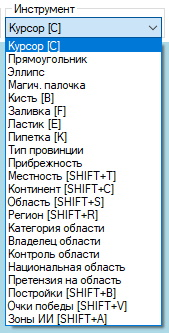
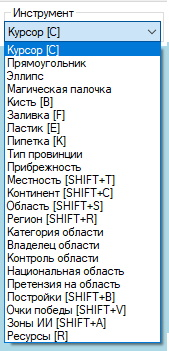
Docs WIP

diff --git a/docs/interfaces/map/lang=ru.md b/docs/interfaces/map/lang=ru.md
@@ -172,49 +172,51 @@
     Подробное описание и инструкция по работе с каждым инструментом приведены в статье: [Инструменты для работы с картой](/docs/tools/map/lang=ru.md)
     
     Поддерживает использование следующих инструментов:
-    - Курсор (сочетание клавиш: C) - позволяет на ЛКМ выбирать объекты на картах, а на ПКМ - открывать контекстное меню действий
+    - Курсор **[C]** - позволяет взаимодействовать и выбирать объекты на карте  (см. подробнее в [Инструмент "Курсор"](/docs/tools/map/common/cursor/lang=ru.md))
   
-    - Прямоугольник (ВРЕМЕННО ОТКЛЮЧЕНО) - позволяет выделять на картах прямоугольные зоны
+    - Прямоугольник **(ВРЕМЕННО ОТКЛЮЧЕНО)** - позволяет выделять на картах прямоугольные зоны
   
-    - Эллипс (ВРЕМЕННО ОТКЛЮЧЕНО) - позволяет выделять на картах элипсоидные зоны
+    - Эллипс **(ВРЕМЕННО ОТКЛЮЧЕНО)** - позволяет выделять на картах элипсоидные зоны
   
-    - Магическая палочка (ВРЕМЕННО ОТКЛЮЧЕНО) - позволяет выделять на картах зоны сложной формы по их цвету
+    - Магическая палочка **(ВРЕМЕННО ОТКЛЮЧЕНО)** - позволяет выделять на картах зоны сложной формы по их цвету
   
-    - Кисть (сочетание клавиш: B) - позволяет рисовать на картах. Поддерживает разные кисти и диаметры. По умолчанию доступен круг радиусом от 1 до 100 пикселей. На ЛКМ красит пиксели цветом из первого слота цвета, а на ПКМ - из второго
+    - Кисть **[B]** - позволяет рисовать на картах (см. подробнее в [Инструмент "Кисть"](/docs/tools/map/common/brush/lang=ru.md))
   
-    - Заливка (сочетание клавиш: F) - позволяет заливать зоны на картах выбранным цветом. На ЛКМ заливает пиксели цветом из первого слота цвета, а на ПКМ - из второго
+    - Заливка **[F]** - позволяет заливать зоны на картах выбранным цветом (см. подробнее в [Инструмент "Заливка"](/docs/tools/map/common/fill/lang=ru.md))
   
-    - Ластик (сочетание клавиш: E) - позволяет стирать на картах пиксели (или в некоторых случаях заливать их белым цветом). Поддерживает разные кисти и диаметры. По умолчанию доступен круг радиусом от 1 до 100 пикселей
+    - Ластик **[E]** - позволяет стирать на картах пиксели (или в некоторых случаях заливать их белым цветом) (см. подробнее в [Инструмент "Ластик"](/docs/tools/map/common/eraser/lang=ru.md))
   
-    - Пипетка (сочетание клавиш: K) - позволяет выбирать (копировать) цвет пикселей на картах. На ЛКМ копирует цвет в первый слот цвета, а на ПКМ - во второй слот
+    - Пипетка **[K]** - позволяет выбирать (копировать) цвет пикселей на карте (см. подробнее в [Инструмент "Пипетка"](/docs/tools/map/common/pipette/lang=ru.md))
   
-    - Тип провинции - позволяет менять тип провинции на ЛКМ (land, lake, sea), а на ПКМ - копировать тип целевой провинции на карте
+    - Тип провинции - позволяет менять тип провинции (land, lake, sea) (см. подробнее в [Инструмент "Тип провинции"](/docs/tools/map/common/province_type/lang=ru.md))
   
-    - Прибрежность - позволяет редактировать тип пребрежности провинций на карте. На ЛКМ - делает провинцию прибрежной, на ПКМ - делает провинцию НЕ прибрежной
+    - Прибрежность - позволяет редактировать тип пребрежности провинций на карте (см. подробнее в [Инструмент "Прибрежность"](/docs/tools/map/common/province_coastal/lang=ru.md))
   
-    - Местность (сочетание клавиш: SHIFT+T) - позволяет редактировать местность провинций на карте. На ЛКМ - устанавливает выбранную местность для целевой провинции на карте, а на ПКМ - копирует значение местности целевой провинции в выпадающий список параметра для последующего использования
+    - Местность **[SHIFT+T]** - позволяет редактировать местность провинций на карте (см. подробнее в [Инструмент "Местность"](/docs/tools/map/common/terrain/lang=ru.md))
   
-    - Континент (сочетание клавиш: SHIFT+C) - позволяет редактировать континент провинций на карте. На ЛКМ - устанавливает выбранный континент для целевой провинции на карте, а на ПКМ - копирует значение континента целевой провинции в выпадающий список параметра для последующего использования
+    - Континент **[SHIFT+C]** - позволяет редактировать континент провинций на карте (см. подробнее в [Инструмент "Континент"](/docs/tools/map/common/province_continent/lang=ru.md))
   
-    - Область (сочетание клавиш: SHIFT+S) - позволяет редактировать область (State) провинций на карте. При передаче провинции между областями в новый State передаются также её постройки, очки победы и другие данные. На ЛКМ - устанавливает выбранную область для целевой провинции на карте, а на ПКМ - копирует значение области целевой провинции в выпадающий список параметра для последующего использования
+    - Область **[SHIFT+S]** - позволяет редактировать принадлежность провинций к областям (states) на карте. При передаче провинции между областями в новый State передаются также её постройки, очки победы и другие данные (см. подробнее в [Инструмент "Область"](/docs/tools/map/common/province_state/lang=ru.md))
   
-    - Регион (сочетание клавиш: SHIFT+R) - позволяет редактировать регион (Strategic Region) провинций на карте. На ЛКМ - устанавливает выбранный регион для целевой провинции на карте, а на ПКМ - копирует значение региона целевой провинции в выпадающий список параметра для последующего использования
+    - Регион **[SHIFT+R]** - позволяет редактировать регион (Strategic Region) провинций на карте (см. подробнее в [Инструмент "Регион"](/docs/tools/map/common/province_region/lang=ru.md))
   
-    - Категория области - позволяет редактировать категорию области (state_category) у целевой области (State) на карте. На ЛКМ - устанавливает выбранную категорию области для целевой области на карте, а на ПКМ - копирует значение категории области целевой области в выпадающий список параметра для последующего использования
+    - Категория области - позволяет редактировать категорию области (state_category) у целевой области (State) на карте (см. подробнее в [Инструмент "Категория области"](/docs/tools/map/common/state_category/lang=ru.md))
   
-    - Владелец области - позволяет редактировать страну-владельца (owner) у целевой области (State) на карте. На ЛКМ - устанавливает выбранную страну в качестве владельца области для целевой области на карте, а на ПКМ - копирует значение страны-владельна области целевой области в выпадающий список параметра для последующего использования
+    - Владелец области - позволяет редактировать страну-владельца (owner) у целевой области (State) на карте (см. подробнее в [Инструмент "Владелец области"](/docs/tools/map/common/state_owner/lang=ru.md))
   
-    - Контроль области - позволяет редактировать страну, контролирующую (controller) целевую область (State) на карте. На ЛКМ - устанавливает выбранную страну в качестве страны-controller области для целевой области на карте, а на ПКМ - копирует значение страны-controller области целевой области в выпадающий список параметра для последующего использования
+    - Контроль области - позволяет редактировать страну, контролирующую (controller) целевую область (State) на карте (см. подробнее в [Инструмент "Контроль области"](/docs/tools/map/common/state_controller/lang=ru.md))
+  
+    - Национальная область - позволяет редактировать список национальных областей выбранной страны (см. подробнее в [Инструмент "Претензия на область"](/docs/tools/map/common/state_core_of/lang=ru.md))
 
-    - Национальная область - позволяет редактировать список национальных областей выбранной страны. На ЛКМ - добавляет область в список национальных областей страны, а на ПКМ - убирает облать из списка национальных областей страны
-
-    - Претензия на область - позволяет редактировать список претензий выбранной страны на области на карты. На ЛКМ - добавляет претензию выбранной страны на область, а на ПКМ - убирает претензию страны на область
+    - Претензия на область - позволяет редактировать список претензий выбранной страны на области на карте (см. подробнее в [Инструмент "Претензия на область"](/docs/tools/map/common/state_claim_by/lang=ru.md))
   
-    - Постройки (сочетание клавиш: SHIFT+B) - позволяет редактировать уровень построек в целовой провинции или целевой области (State) на карте (зависит от типа выбранной постройки). На ЛКМ - добавляет 1 или 10 уровней (зависит от зажатых дополнительных кнопок, подробнее см. в [Инструменты для работы с картой](/docs/tools/map/lang=ru.md)) для постройки в целевой провинции или области на карте, а на ПКМ - уменьшает уровень на 1 или 10 единиц
+    - Постройки **[SHIFT+B]** - позволяет редактировать уровень построек в целовой провинции или целевой области (State) на карте (зависит от типа выбранной постройки) (см. подробнее в [Инструмент "Постройки"](/docs/tools/map/common/buildings/lang=ru.md))
   
-    - Очки победы (сочетание клавиш: SHIFT+V) - позволяет редактировать количество очков победы в целевой провинции на карте. На ЛКМ - добавляет 1, 10 или 100 очков победы (зависит от зажатых дополнительных кнопок, подробнее см. в [Инструменты для работы с картой](/docs/tools/map/lang=ru.md)) в целевую провинцию, а на ПКМ - уменьшает значение на 1, 10 или 100 очков победы
+    - Очки победы **[SHIFT+V]** - позволяет редактировать количество очков победы в целевой провинции на карте (см. подробнее в [Инструмент "Очки победы"](/docs/tools/map/common/victory_points/lang=ru.md))
 
-    - Зоны ИИ (сочетание клавиш: SHIFT+A) - позволяет редактировать вхождение континентов или стратегических регионов в зоны ИИ (ai_areas). На ЛКМ - добавляет континент или стратегический регион в выбранную зону ИИ, а на ПКМ - убирает континент или стратегический регион из выбранной зоны ИИ
+    - Зоны ИИ **[SHIFT+A]** - позволяет редактировать вхождение континентов или стратегических регионов в зоны ИИ (ai_areas) (см. подробнее в [Инструмент "Зоны ИИ"](/docs/tools/map/common/ai_area/lang=ru.md))
+  
+    - Ресурсы **[B]** - позволяет редактировать количество выбранного ресурса в указанной области на карте (см. подробнее в [Инструмент "Ресурсы"](/docs/tools/map/common/resources/lang=ru.md))
 
     </details>
 ---

diff --git a/docs/tools/map/lang=ru.md b/docs/tools/map/lang=ru.md
@@ -12,25 +12,29 @@
 
 Список базовых инструментов:
 
-1. [Курсор](common/cursor/lang=ru.md) [C] - позволяет выбирать объекты на карте;
+1. [Курсор](common/cursor/lang=ru.md) **[C]** - позволяет выбирать объекты на карте;
 2. [Прямоугольник](common/rectangle/lang=ru.md) - временно отключен;
 3. [Эллипс](common/ellipse/lang=ru.md) - временно отключен;
 4. [Магическая палочка](common/magic_wand/lang=ru.md) - временно отключен;
-5. [Кисть](common/brush/lang=ru.md) [B] - позволяет рисовать на текстурных картах выбранным цветом;
-6. [Заливка](common/fill/lang=ru.md) [F] - позволяет заливать область на текстурных картах выбранным цветом;
-7. [Ластик](common/eraser/lang=ru.md) [E] - позволяет стрирать цвет пикселей на текстурных картах;
-8. [Пипетка](common/pipette/lang=ru.md) [K] - позволяет копировать цвет из целевого пикселя на текстурных картах;
+5. [Кисть](common/brush/lang=ru.md) **[B]** - позволяет рисовать на текстурных картах выбранным цветом;
+6. [Заливка](common/fill/lang=ru.md) **[F]** - позволяет заливать область на текстурных картах выбранным цветом;
+7. [Ластик](common/eraser/lang=ru.md) **[E]** - позволяет стрирать цвет пикселей на текстурных картах;
+8. [Пипетка](common/pipette/lang=ru.md) **[K]** - позволяет копировать цвет из целевого пикселя на текстурных картах;
 9. [Тип провинции](common/province_type/lang=ru.md) - позволяет изменять тип провинций (land, sea, lake) на карте;
 10. [Прибрежность](common/province_coastal/lang=ru.md) - позволяет изменять прибрежность (isCoastal) провинций на карте;
-11. [Местность](common/terrain/lang=ru.md) [SHIFT+T] - позволяет изменять местность провинций (terrain) на карте;
-12. [Континент](common/province_continent/lang=ru.md) [SHIFT+C] - позволяет изменять континент (continent) провинций на карте;
-13. [Область](common/province_state/lang=ru.md) [SHIFT+S] - позволяет редактировать принадлежность провинций на карте к областям (states);
-14. [Регион](common/province_region/lang=ru.md) [SHIFT+R] - позволяет редактировать принадлежность провинций на карте к регионам (strategic regions);
+11. [Местность](common/terrain/lang=ru.md) **[SHIFT+T]** - позволяет изменять местность провинций (terrain) на карте;
+12. [Континент](common/province_continent/lang=ru.md) **[SHIFT+C]** - позволяет изменять континент (continent) провинций на карте;
+13. [Область](common/province_state/lang=ru.md) **[SHIFT+S]** - позволяет редактировать принадлежность провинций на карте к областям (states);
+14. [Регион](common/province_region/lang=ru.md) **[SHIFT+R]** - позволяет редактировать принадлежность провинций на карте к регионам (strategic regions);
 15. [Категория области](common/state_category/lang=ru.md) - позволяет редактировать категории областей (states) на карте;
 16. [Владелец области](common/state_owner/lang=ru.md) - позволяет редактировать странцу-владельца (owner) областей (states) на карте;
 17. [Контроль области](common/state_controller/lang=ru.md) - позволяет редактировать страну-контроллера (controller) областей (states) на карте;
-18. [Постройки](common/buildings/lang=ru.md) [SHIFT+B] - позволяет редактировать количество построек (buildings) в провинциях и областях (states) на карте;
-19. [Зоны ИИ](common/ai_area/lang=ru.md) [SHIFT+A] - позволяет редактировать границы зон ИИ (ai areas) на карте.
+18. [Национальная область](common/state_core_of/lang=ru.md) - позволяет редактировать национальные области стран на карте;
+19. [Претензия на область](common/state_claim_by/lang=ru.md) - позволяет редактировать претензии стран на области на карте;
+20. [Постройки](common/buildings/lang=ru.md) **[SHIFT+B]** - позволяет редактировать количество построек (buildings) в провинциях и областях (states) на карте;
+21. [Очки победы](common/victory_points/lang=ru.md) **[SHIFT+V]** - позволяет редактировать количество очков в указанной провинции;
+22. [Зоны ИИ](common/ai_area/lang=ru.md) **[SHIFT+A]** - позволяет редактировать границы зон ИИ (ai areas) на карте;
+23. [Ресурсы](common/resources/lang=ru.md) **[R]** - позволяет редактировать количество выбранного ресурса в указанной области (state).
 
 
 ## Расширенные инструменты
@@ -39,10 +43,11 @@
 
 Подробнее о всех возможные действиях смотрите в статьях, связанных с перечисленными далее инструментами:
 
-1. [Железные дороги](advanced/railways/lang=ru.md) - позволяет создавать, изменять, разделять, соединять и удалять железные дороги на карте;
-2. [Узлы снабжения](advanced/supply_hubs/lang=ru.md) - позволяет создавать и удалять узлы снабжения на карте;
-3. [Объединение провинций](advanced/merge_provinces/lang=ru.md) - позволяет быстро объединять провинции на карте, уменьшая их общее количество;
-4. [Поиск изменений на карте](advanced/find_map_changes/lang=ru.md) - позволяет находить все изменения, внесённые на карту провинций (перерисованные границы и изменённые id провинций), относительно выбранной предыдущей версии данных мода.
+1. [Смежности](advanced/adjacencies/lang=ru.md) - позволяет создавать, изменять и удалять смежности между провинциями на карте;
+2. [Железные дороги](advanced/railways/lang=ru.md) - позволяет создавать, изменять, разделять, соединять и удалять железные дороги на карте;
+3. [Узлы снабжения](advanced/supply_hubs/lang=ru.md) - позволяет создавать и удалять узлы снабжения на карте;
+4. [Объединение провинций](advanced/merge_provinces/lang=ru.md) - позволяет быстро объединять провинции на карте, уменьшая их общее количество;
+5. [Поиск изменений на карте](advanced/find_map_changes/lang=ru.md) - позволяет находить все изменения, внесённые на карту провинций (перерисованные границы и изменённые id провинций), относительно выбранной предыдущей версии данных мода.
 
 ## Инструменты авторассчёта
 
@@ -52,46 +57,45 @@
 - Автоматически рассчитать и заполнить некоторые данные.
 - Выполнить другую монотонную и сложную работу, которую в противном случае пришлось бы выполнять вручную.
 
-Доступ к списку инструментов авторассчёта осуществляется через меню программы "Правка" и "Инструменты авторассчёта".
+Доступ к списку инструментов авторассчёта осуществляется через меню программы "Правка" и "Инструменты авторассчёта":
 
 ![alt text](_images/autotools_lang=ru.jpg)
----
 
 #### Список и описание инструментов авторассчёта:
 
-1. Удалить провинции с 0 пикселями:
+1. **Удалить провинции с 0 пикселями:**
    
-   - Важность: критическая, исправляет краш игры при запуске;   
-   - Описание: удаляет из definition.csv объявление провинций, если их нет на карте (занято 0 пикселей). Освобождаемые ID от удаляемых провинций передаются другим провинциям на карте, чтобы уменьшить их общее количество в моде;
+   - **Важность:** критическая, исправляет краш игры при запуске;   
+   - **Описание:** удаляет из definition.csv объявление провинций, если их нет на карте (занято 0 пикселей). Освобождаемые ID от удаляемых провинций передаются другим провинциям на карте, чтобы уменьшить их общее количество в моде;
 
-2. Исправить прибрежности провинций:
+2. **Исправить прибрежности провинций:**
    
-   - Важность: высокая, исправляет возможные краши игры из-за построек;
-   - Описание: исправляет ошибки, связанные с несоответствием значения прибрежности (isCoastal) у провинций на карте (например, наземные провинции, соседствующие с морскими провинциями, но у которых значение прибрежности установлено на false);
+   - **Важность:** высокая, исправляет возможные краши игры из-за построек;
+   - **Описание:** исправляет ошибки, связанные с несоответствием значения прибрежности (isCoastal) у провинций на карте (например, наземные провинции, соседствующие с морскими провинциями, но у которых значение прибрежности установлено на false);
 
-3. Убрать континенты у озёр и морей:
+3. **Убрать континенты у озёр и морей:**
    
-   - Важность: низкая;
-   - Описание: устанавливает значение континента на 0 у морских и озёрных провинций, поскольку их принадлежность к континентам не имеет смысла в рамках игры;
+   - **Важность: низкая;**
+   - **Описание:** устанавливает значение континента на 0 у морских и озёрных провинций, поскольку их принадлежность к континентам не имеет смысла в рамках игры;
 
-4. Убрать морские провинции из областей:
+4. **Убрать морские провинции из областей:**
    
-   - Важность: критическая, исправляет краш игры при запуске;
-   - Описание: убирает все морские провинции из областей (states);
+   - **Важность:** критическая, исправляет краш игры при запуске;
+   - **Описание:** убирает все морские провинции из областей (states);
   
-5. Валидация провинций - временно отключено;
-6. Валидация областей:
+5. **Валидация провинций** - временно отключено;
+6. **Валидация областей:**
    
-   - Важность: высокая/критическая;
-   - Описание: для каждой области (state) выполняет следующие действия:
+   - **Важность:** высокая/критическая;
+   - **Описание:** для каждой области (state) выполняет следующие действия:
    1. Сортирует провинции в области по увеличению ID;
    2. Удаляет повторные записи ID провинции в области;
    3. Удаляет провинцию из области, если она уже приписана к другой области (исправляет краш при запуске игры);
    4. Переносит очки победы (victory points) в другую (правильную) область, если в файле текущей области очки победы прописаны для провинции, которая относится к другой области. 
    
-7. Валидация регионов:
-   - Важность: высокая/критическая;
-   - Описание: для каждого региона (strategic region) выполняет следующие действия:
+7. **Валидация регионов:**
+   - **Важность:** высокая/критическая;
+   - **Описание:** для каждого региона (strategic region) выполняет следующие действия:
    1. Сортирует провинции в регионе по увеличению ID;
    2. Удаляет повторные записи ID провинции в регионе;
    3. Удаляет провинцию из региона, если она уже приписана к другому региону.

diff --git a/docs/interfaces/map/context_menu/lang=ru.md b/docs/interfaces/map/context_menu/lang=ru.md
@@ -17,7 +17,7 @@
 
 ## Пункт меню "Провинция"
 
-Пункт меню "Провинция" - выводит краткую информацию о провинции и даёт ещё один способ (помимо соответствующих инструментов, см. подробнее [Инструменты для работы с картой](/tools/map/lang=ru.md)) для редактирования таких параметров провинции, как:
+Пункт меню "Провинция" - выводит краткую информацию о провинции и даёт ещё один способ (помимо соответствующих инструментов, см. подробнее [Инструменты для работы с картой](/docs/tools/map/lang=ru.md)) для редактирования таких параметров провинции, как:
 1. Принадлежность к области (state)
 2. Принадлежность к региона (strategic region)
 3. Тип провинции (land, sea, lake)
@@ -28,19 +28,36 @@
 
 ![alt text](_images/context_menu_province_lang=ru.jpg)
 
-
 ## Пункт меню "Смежность"
 
-Пункт меню "Смежность" - позволяет создавать, редактировать и удалять смежности (adjacencies) между провинциями (см. подробнее [Инструмент "Смежности"](/tools/map/advanced/supply_hubs/lang=ru.md)).
+Пункт меню "Смежность" - позволяет создавать, редактировать и удалять смежности (adjacencies) между провинциями (см. подробнее [Инструмент "Смежности"](/docs/tools/map/advanced/supply_hubs/lang=ru.md)).
 
 Чтобы увидеть смежности на карте, включите в "Доп. слои" отображение смежностей.
 
 ![alt text](_images/context_menu_adjacency_lang=ru.jpg)
 
+## Пункт меню "Железная дорога"
 
----
-Пункт меню "Железная дорога" - позволяет создавать, редактировать, разделять, соединять и удалять железные дороги (см. подробнее [Инструмент "Железные дороги"](/tools/map/advanced/railways/lang=ru.md)). 
+Пункт меню "Железная дорога" - позволяет создавать, редактировать, разделять, соединять и удалять железные дороги (см. подробнее [Инструмент "Железные дороги"](/docs/tools/map/advanced/railways/lang=ru.md)). 
 
 Чтобы увидеть железные дороги на карте, не забудьте включить их отображение в "Доп. слои".
 
 ![alt text](_images/context_menu_railway_lang=ru.jpg)
+
+## Пункт меню "Узел снабжения"
+
+Пункт меню "Узел снабжения" - позволяет создавать и удалять узлы снабжения на карте (см. подробнее [Инструмент "Железные дороги"](/docs/tools/map/advanced/supply_hubs/lang=ru.md)). 
+
+Чтобы увидеть узлы снабжения на карте, не забудьте включить их отображение в "Доп. слои".
+
+![alt text](_images/context_menu_supply_hub_lang=ru.jpg)
+
+## Пункт меню "Дополнительные действия"
+
+Пункт меню "Дополнительные действия" - содержит в себе следующие действия:
+1. Объединить с заменой - объединяет две выбранные провинции (см. подробнее [Инструмент "Объединение провинций"](/docs/tools/map/advanced/merge_provinces/lang=ru.md));
+2. Объединить все с заменой - объединяет все выбранные провинции в группе (см. подробнее [Инструмент "Объединение провинций"](/docs/tools/map/advanced/merge_provinces/lang=ru.md)). 
+
+Чтобы увидеть узлы снабжения на карте, не забудьте включить их отображение в "Доп. слои".
+
+![alt text](_images/context_menu_additional_actions_lang=ru.jpg)

diff --git a/docs/tools/map/advanced/merge_provinces/lang=ru.md b/docs/tools/map/advanced/merge_provinces/lang=ru.md
@@ -1,1 +1,2 @@
-# [🠈](../../lang=ru.md) | 
+# [🠈](../../lang=ru.md) | Инструмент "Объединение провинций"
+
